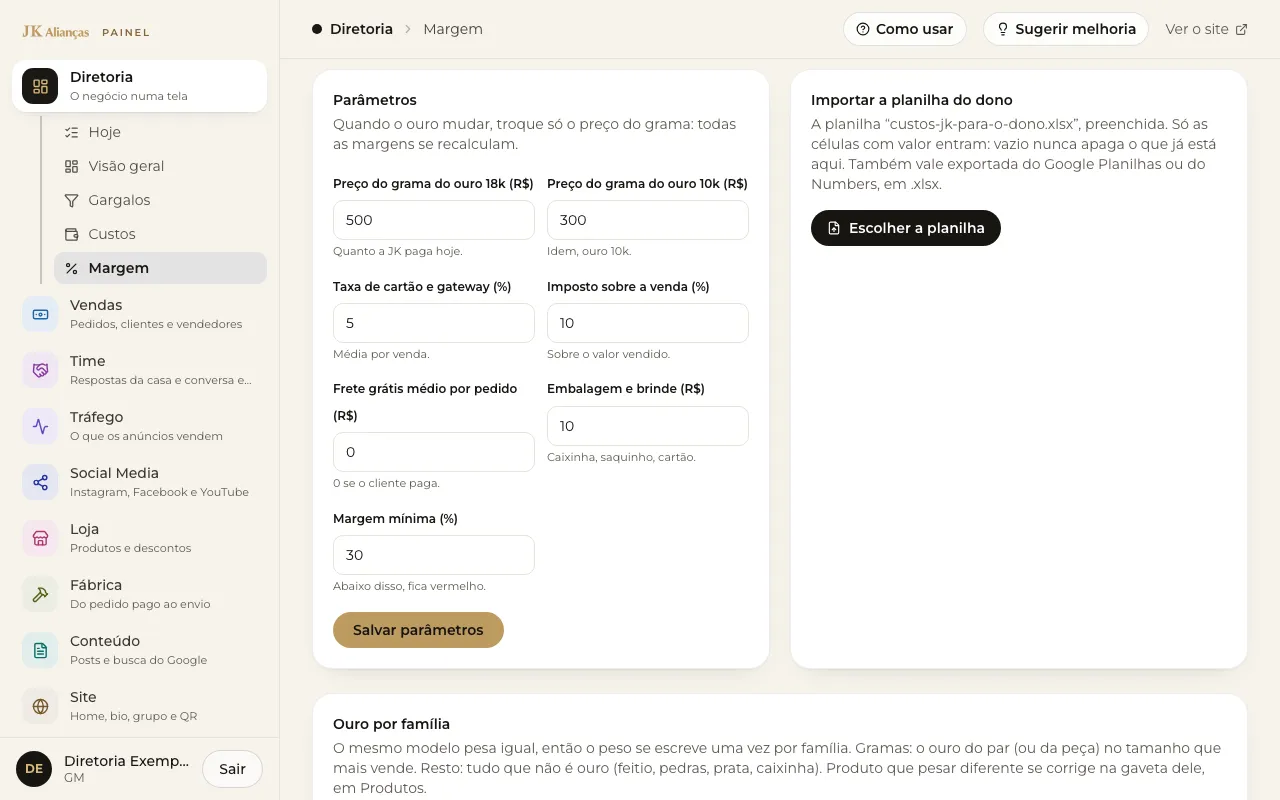
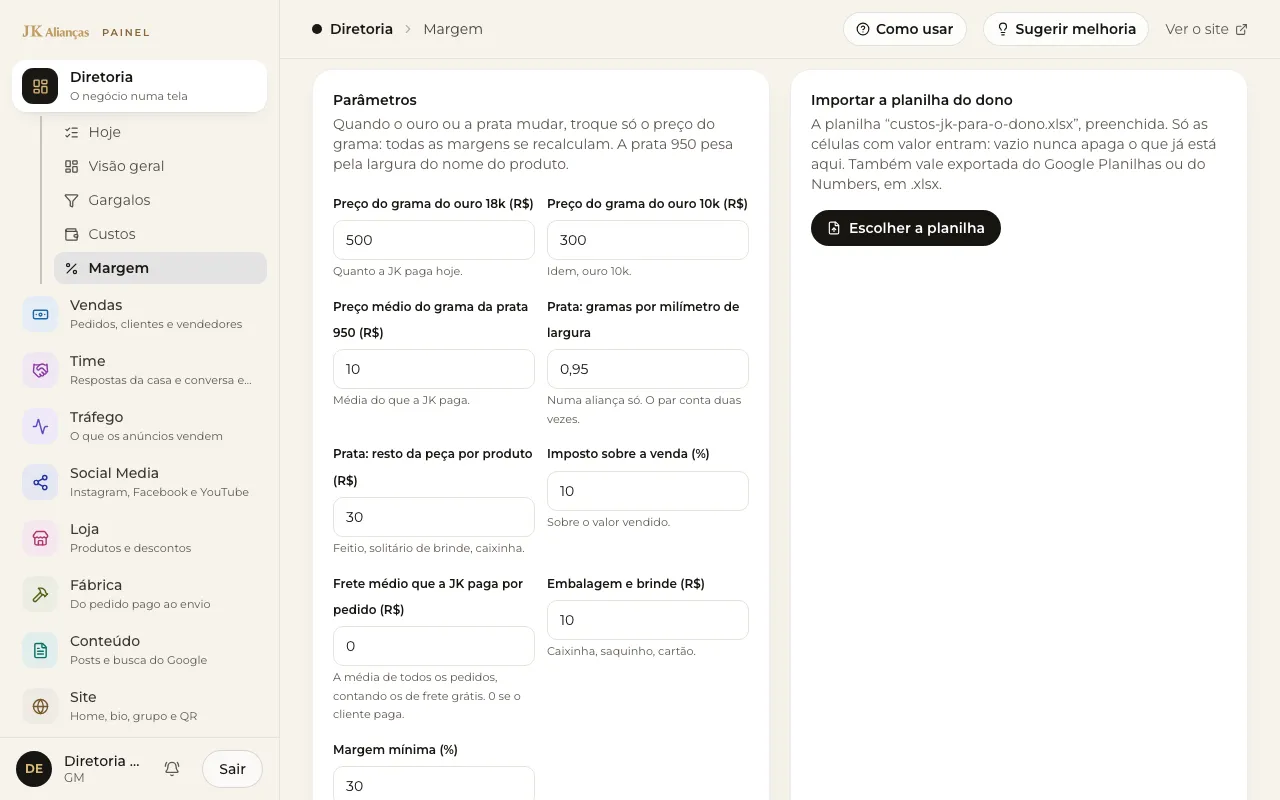
docs(ajuda): tutorial da Margem com o bloco de taxas do gateway (cartão 77)
A tela mudou, então os prints foram refeitos (print velho mente) e o
tutorial ganhou o passo "Preencha as taxas da Appmax" com o print novo.
Também corrige o seletor de destaque dos parâmetros no manifesto.

diff --git a/src/lib/ajuda/tutoriais/margem.ts b/src/lib/ajuda/tutoriais/margem.ts
@@ -23,14 +23,21 @@ export const margem: Tutorial = {
         titulo: "Troque o preço do grama do ouro",
         texto: "Quando o ouro mudar, edite o preço do grama e toque em Salvar parâmetros. Todas as margens se recalculam sozinhas.",
         print: "margem-2.webp",
-        regiao: { x: 24.4, y: 21.5, l: 35.8, a: 11 },
+        regiao: { x: 24.4, y: 23, l: 35.8, a: 13 },
         alt: "Campos de preço do grama do ouro 18k e 10k nos parâmetros.",
+      },
+      {
+        titulo: "Preencha as taxas da Appmax",
+        texto: "Em Taxas do gateway, escreva a taxa do cartão e do Pix, a antecipação e a tarifa fixa por venda. A taxa efetiva aparece embaixo e entra em toda margem. Campo vazio conta zero.",
+        print: "margem-4.webp",
+        regiao: { x: 24.4, y: 10.5, l: 35.8, a: 50 },
+        alt: "Bloco Taxas do gateway com os campos de tarifa fixa, taxa do cartão, do Pix e da antecipação.",
       },
       {
         titulo: "Importe a planilha de custos",
         texto: "Toque em Escolher a planilha e envie o arquivo .xlsx preenchido. Só as células com valor entram, e célula vazia nunca apaga um custo que já está lá.",
         print: "margem-2.webp",
-        regiao: { x: 61.7, y: 8.6, l: 35.8, a: 32 },
+        regiao: { x: 61.7, y: 8.6, l: 35.8, a: 22 },
         alt: "Bloco Importar a planilha do dono com o botão Escolher a planilha.",
       },
       {
